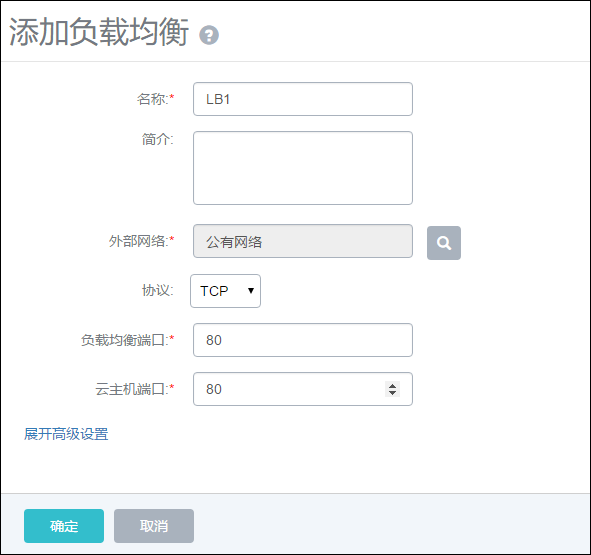
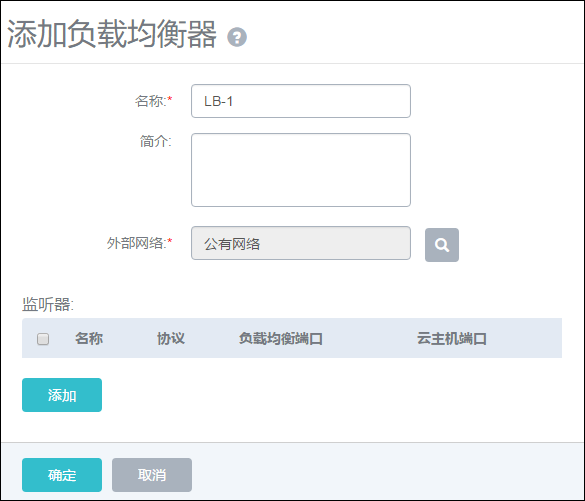
Updates Network/loadbalance.md
Auto commit by GitBook Editor

diff --git a/Network/loadbalance.md b/Network/loadbalance.md
@@ -4,10 +4,9 @@
 
 可以根据实际情况，随时添加或删减负载均衡规则中的云主机来调整服务能力，而且这些操作不会影响业务的正常访问。 负载均衡器支持HTTP/TCP 两种协议。此外，负载均衡器还支持灵活配置多种转发策略，实现高级转发控制功能。
 
-### 添加负载均衡
+### 添加负载均衡器
 
 点击菜单栏中的负载均衡按钮，进入负载均衡管理页面。如图14-4-7-1所示，用户可以在此界面查看负载均衡状态。
-
 
 ![png](../images/14-4-7-1.png "图14-4-7-1 负载均衡")
 ###### 图14-4-7-1  负载均衡
@@ -18,19 +17,25 @@
 
 2. 简介：对此负载均衡器的描述，选填；
 
-3. 外部网络：将从共有网络中随机选取一个IP，作为负载均衡服务监听地址；
+3. 外部网络：将从共有网络中随机选取一个IP，作为负载均衡服务监听地址。
 
-4. 协议：根据应用业务类型，选择`HTTP`或`TCP`；
+### 添加监听器
 
-5. 负载均衡端口：上述IP中所设定的端口，即云主机公网地址端口，范围1~65535；
+1. 名称：监听器名称；
 
-6. 云主机端口：云主机私有IP端口，范围1~65535，可与负载均衡端口；
+2. 简介：对此监听器的描述，选填；
 
-7. 展开高级设置，让负载均衡器后端接若干云主机。
+3. 协议：根据应用业务类型，选择`HTTP`或`TCP`；
+
+4. 负载均衡端口：上述IP中所设定的端口，即云主机公网地址端口，范围1~65535；
+
+5. 云主机端口：云主机私有IP端口，范围1~65535，可与负载均衡端口；
+
+6. 展开高级设置，让负载均衡器后端接若干云主机。
 
 
-![png](../images/14-4-7-2.png "图14-4-7-2 添加负载均衡")
-###### 图14-4-7-2  添加负载均衡
+![png](../images/14-4-7-2.png "图14-4-7-2 添加负载均衡器")
+###### 图14-4-7-2  添加负载均衡器
 
 点击展开高级设置，如图14-4-7-3所示高级设置界面。高级设置参数如下，普通用户使用默认参数即可。
 
@@ -44,8 +49,8 @@
 
 **负载均衡算法**：负载均衡算法可以对网络包设定不同的路由规则，目前支持的算法有： roundrobin, leastconn, source。我们将在下文详细介绍这三种算法。
 
-![png](../images/14-4-7-3.png "图14-4-7-3 负载均衡高级设置")
-###### 图14-4-7-3  负载均衡高级设置
+![png](../images/14-4-7-3.png "图14-4-7-3 添加监听器")
+###### 图14-4-7-3  添加监听器
 
 ##### 负载均衡算法：
 

diff --git a/vCenter/103-vcenter云路由网络.md b/vCenter/103-vcenter云路由网络.md
@@ -1,8 +1,8 @@
 # vCenter云路由
 
-从[云路由](/Network/VR-README.md)章节可以了解到，云路由是一台特殊的云主机，可以提供多种网络服务。包括：DHCP、DNS、SNAT、EIP、端口转发、IPsec隧道等。
+从[云路由](/Network/VR-README.md)章节可以了解到，云路由是一台特殊的云主机，可以提供多种网络服务。包括：DHCP、DNS、SNAT、EIP、端口转发、IPsec隧道、端口转发等。
 
 在ZStack中接管的vCenter支持创建一个针对vCenter的云路由，只需要添加一个对应的云路由镜像，操作与ZStack云路由完全相同。
 
-在云路由网络中，添加网络（云路由）可以分为添加公有网络、添加云路由镜像、添加云路由规格、添加私有网络四个部分。参考[网络设置（云路由）](/Network/VR-network.md)。
+在vCenter云路由网络中，添加网络（云路由）可以分为添加公有网络、添加云路由镜像、添加云路由规格、添加私有网络四个部分。参考[网络设置（云路由）](/Network/VR-network.md)。
 
